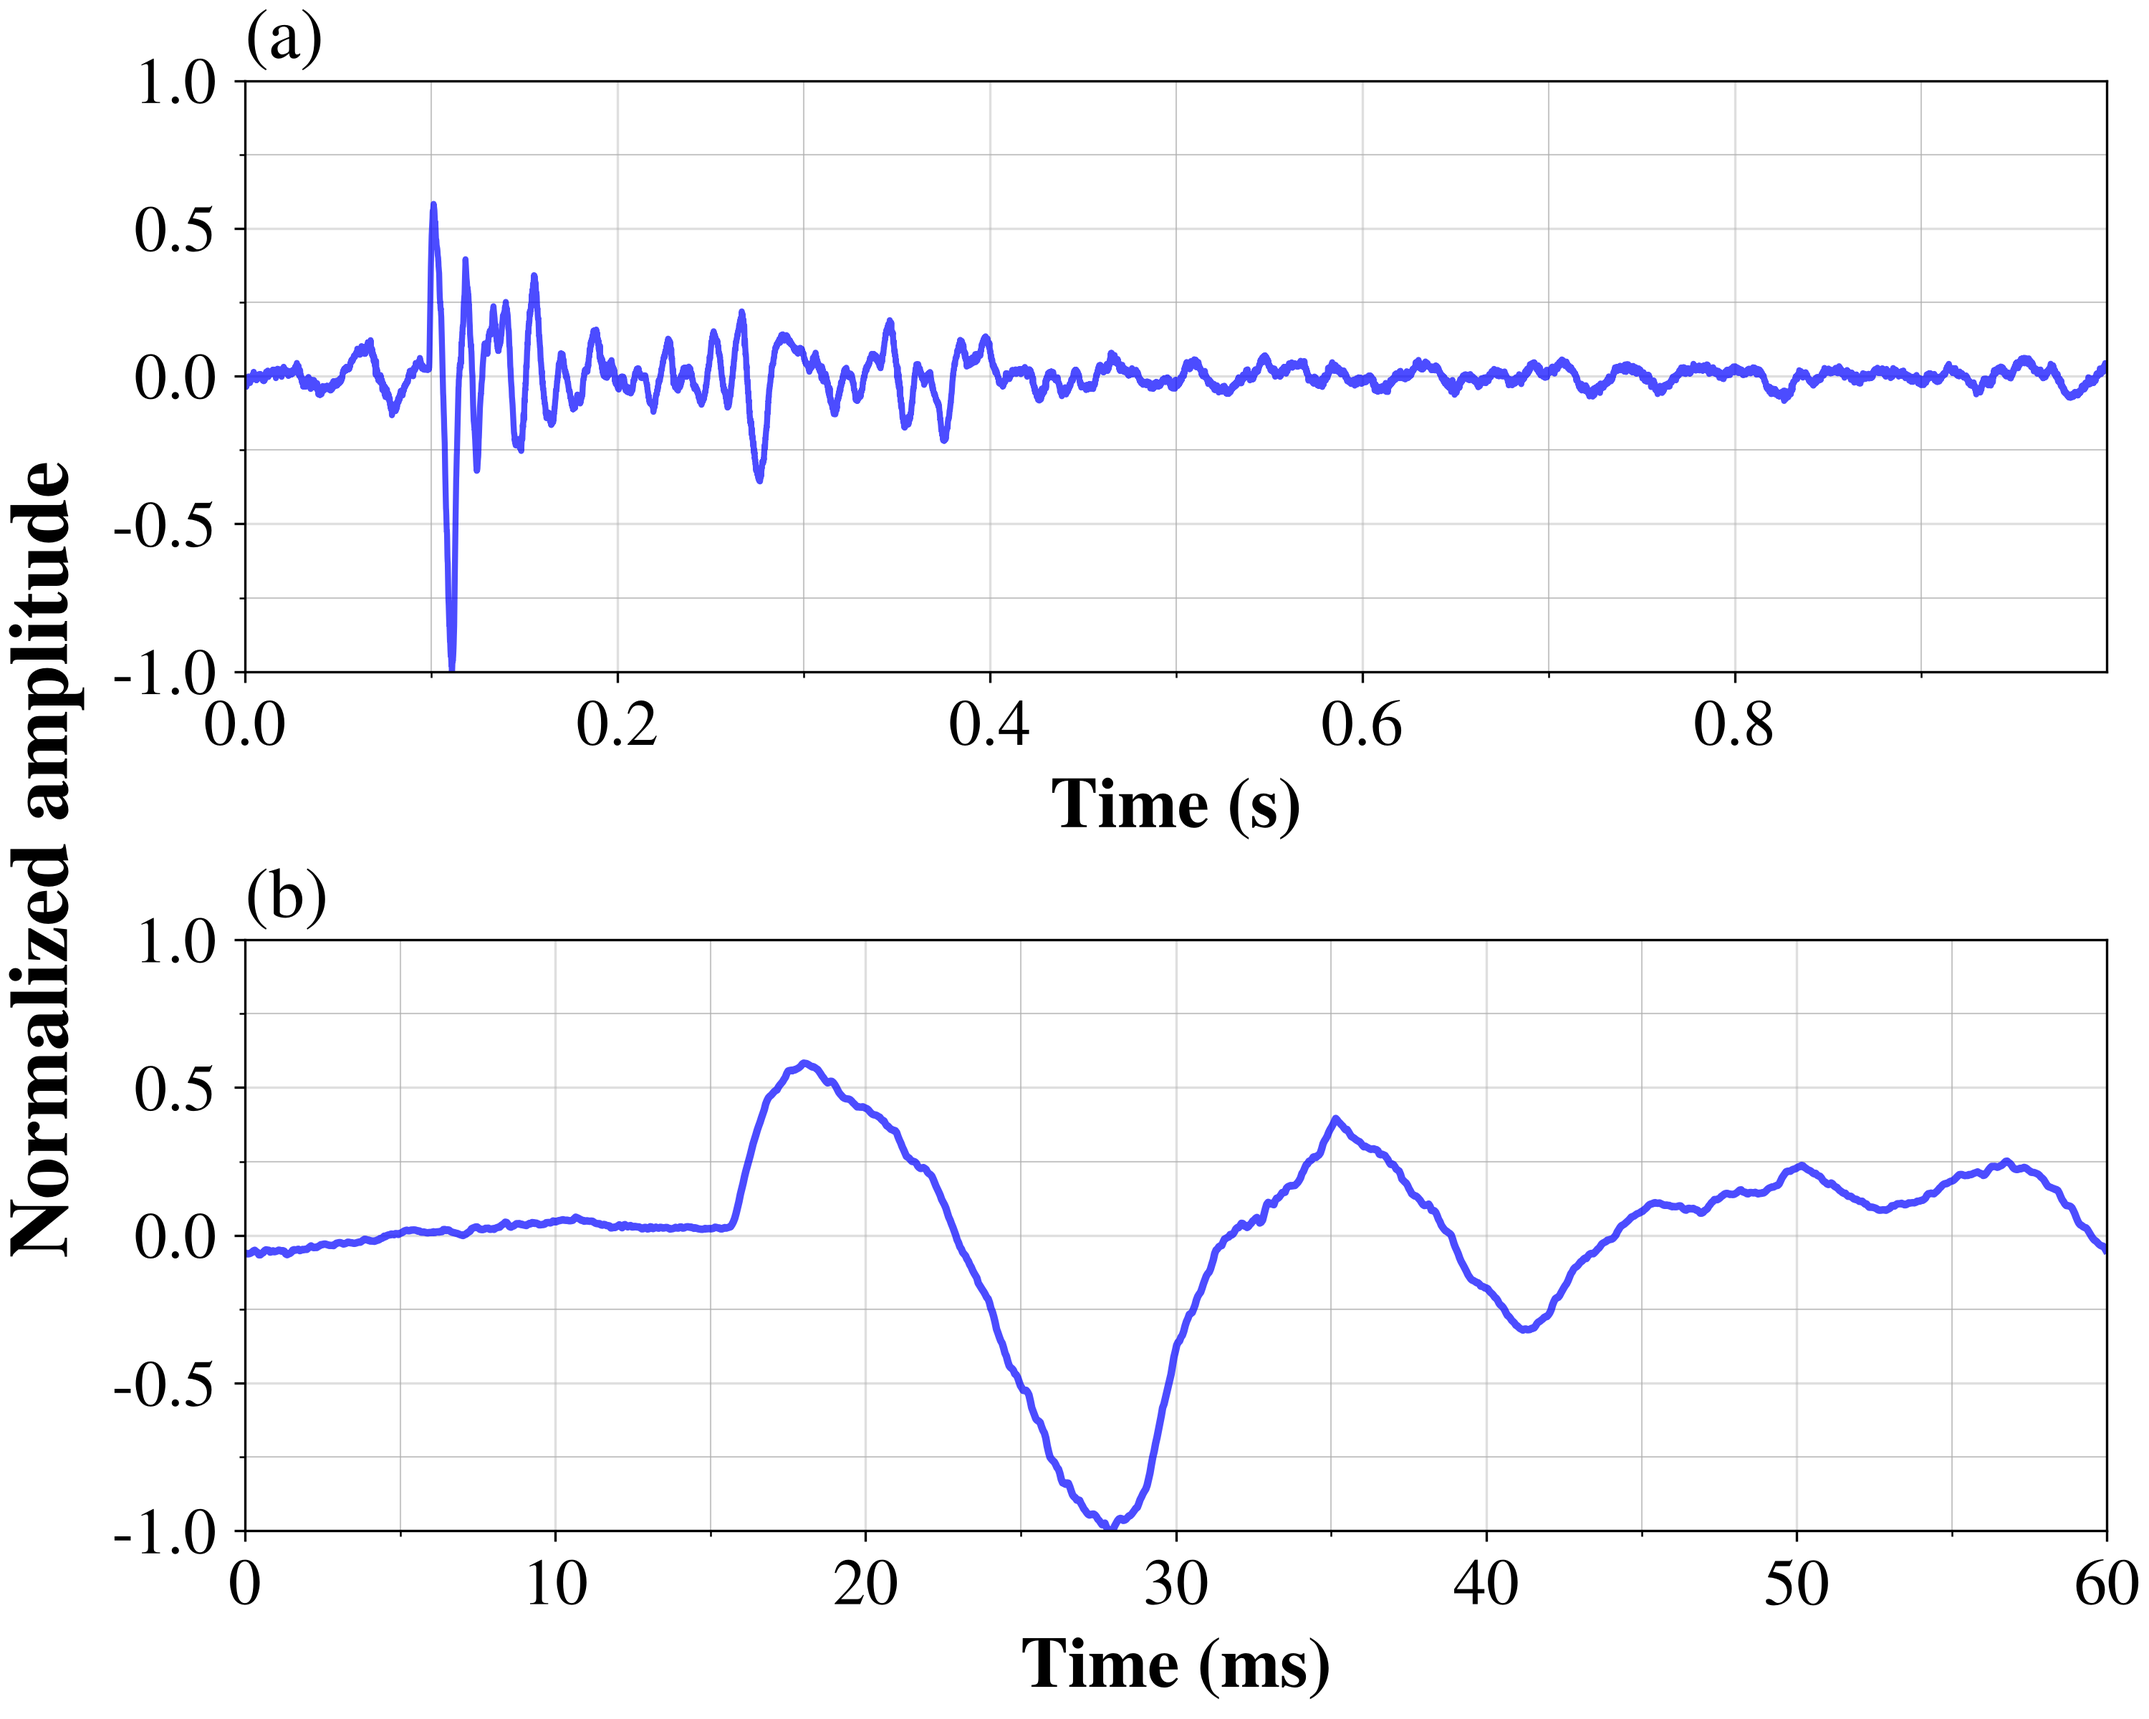
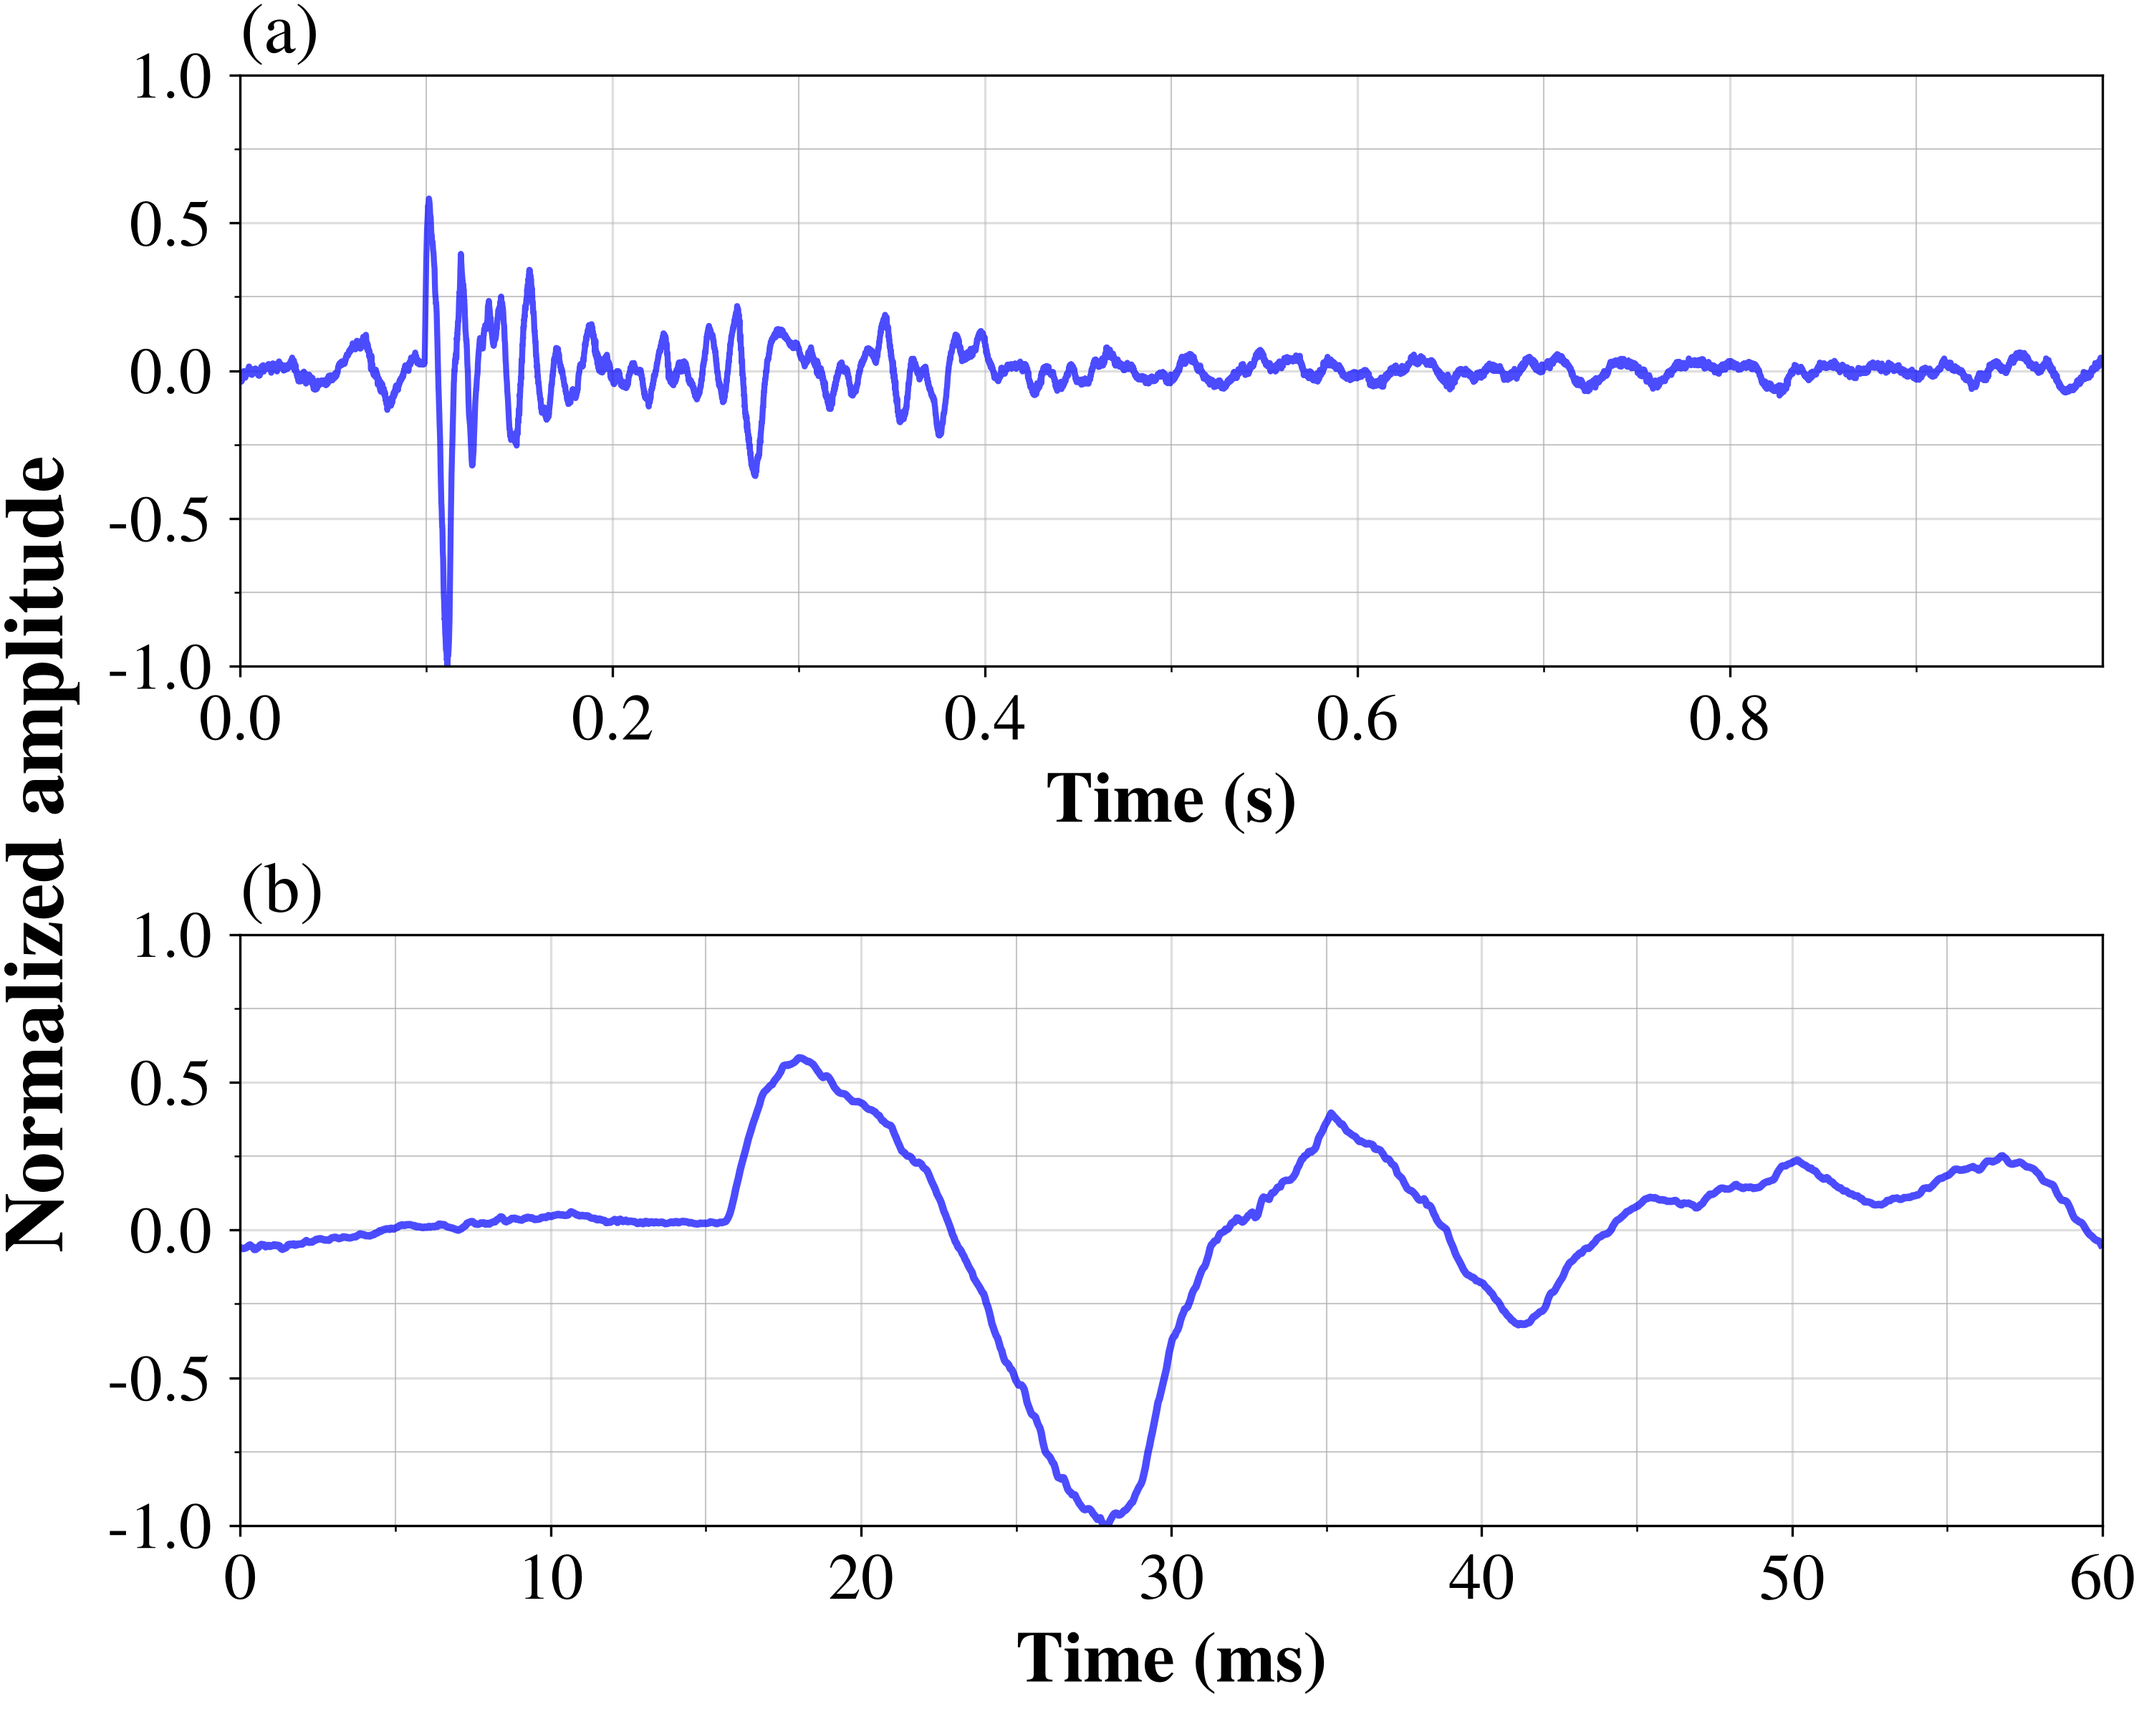
feat: enhance waveform figure output by adjusting bounding box and padding

diff --git a/projects/2026-zelinjak-artillery-detection/BEC/scripts/generate_waveform_figure.py b/projects/2026-zelinjak-artillery-detection/BEC/scripts/generate_waveform_figure.py
@@ -93,7 +93,7 @@ def main() -> None:
     axes[1].xaxis.set_minor_locator(mticker.MultipleLocator(5))
 
     OUTPUT_PATH.parent.mkdir(parents=True, exist_ok=True)
-    fig.savefig(OUTPUT_PATH, dpi=300)
+    fig.savefig(OUTPUT_PATH, dpi=300, bbox_inches="tight", pad_inches=0.02)
     print(f"Peak at {peak_index / sr * 1000:.1f} ms, window {window_start / sr * 1000:.0f}"
           f"--{(window_start + window_samples) / sr * 1000:.0f} ms")
     print(f"Saved {OUTPUT_PATH}")
